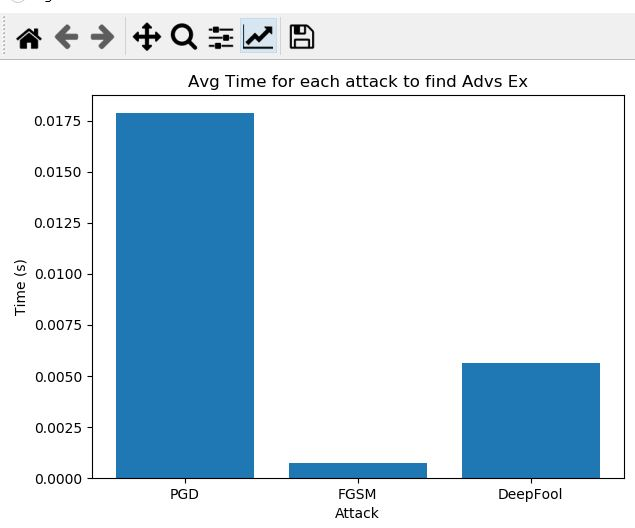
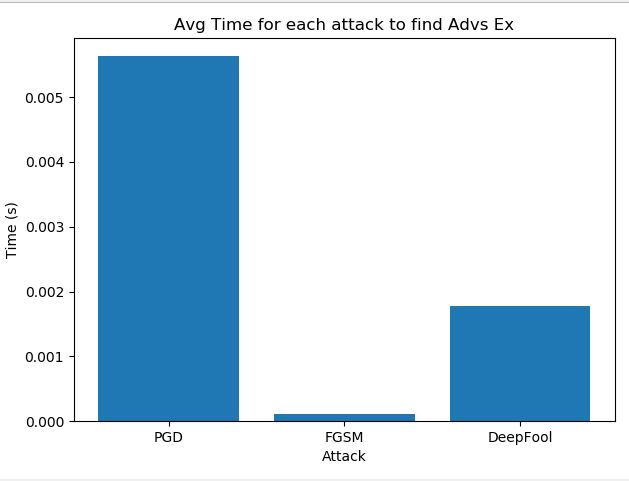
update with 100 imgs

Changed region(s): [[0.0, 0.0312, 1.0, 0.9979]]

diff --git a/Week 2/mnistfoolfinal.py b/Week 2/mnistfoolfinal.py
@@ -40,8 +40,8 @@ if __name__ == '__main__':
 	#us to work with EagerPy tensors in the following
 
 	##########################################################
-	images, labels = samples(fmodel, dataset="mnist", batchsize=16)
-	images1, labels1=ep.astensors(*samples(fmodel, dataset="mnist", batchsize=16))
+	images, labels = samples(fmodel, dataset="mnist", batchsize=100)
+	images1, labels1=ep.astensors(*samples(fmodel, dataset="mnist", batchsize=100))
 	print(accuracy(fmodel, images1, labels1))
 
 
